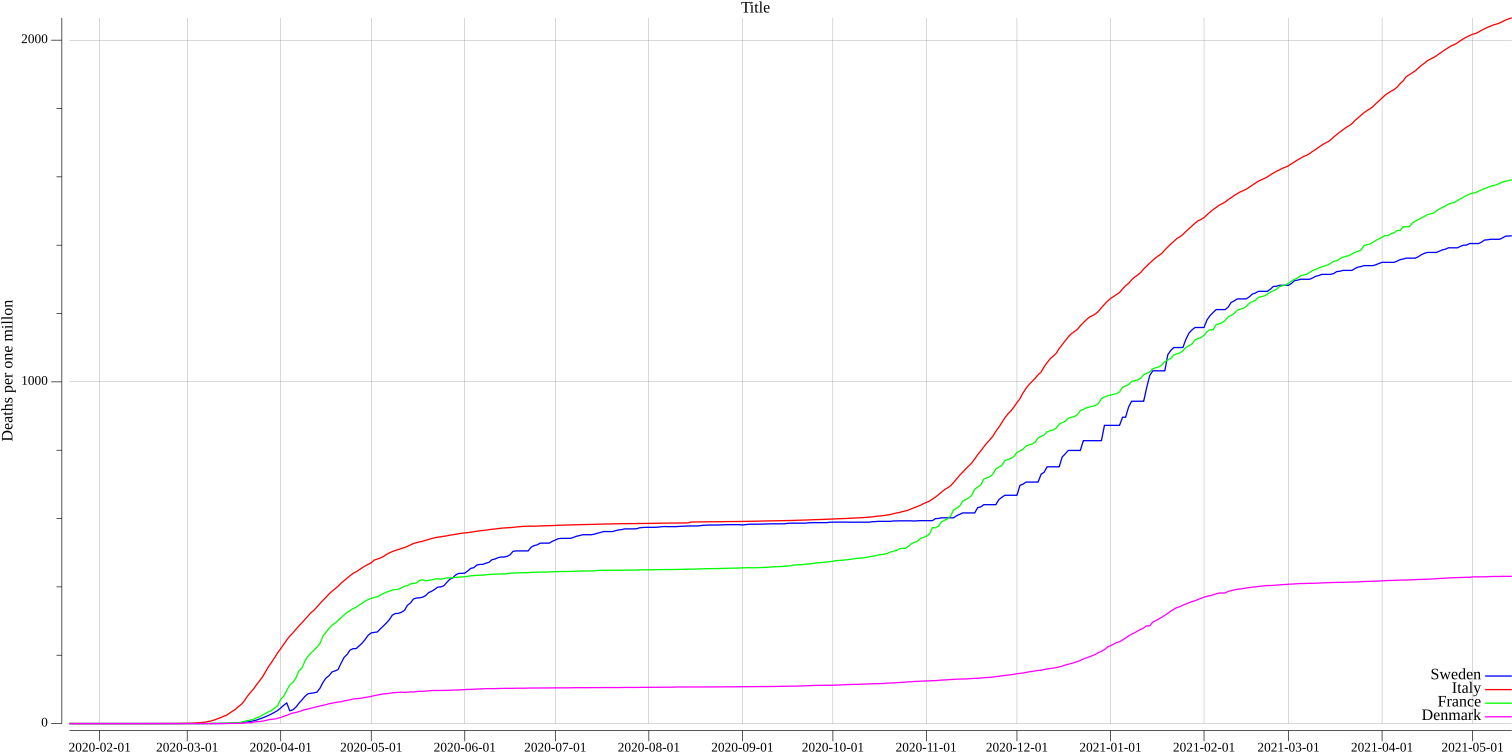
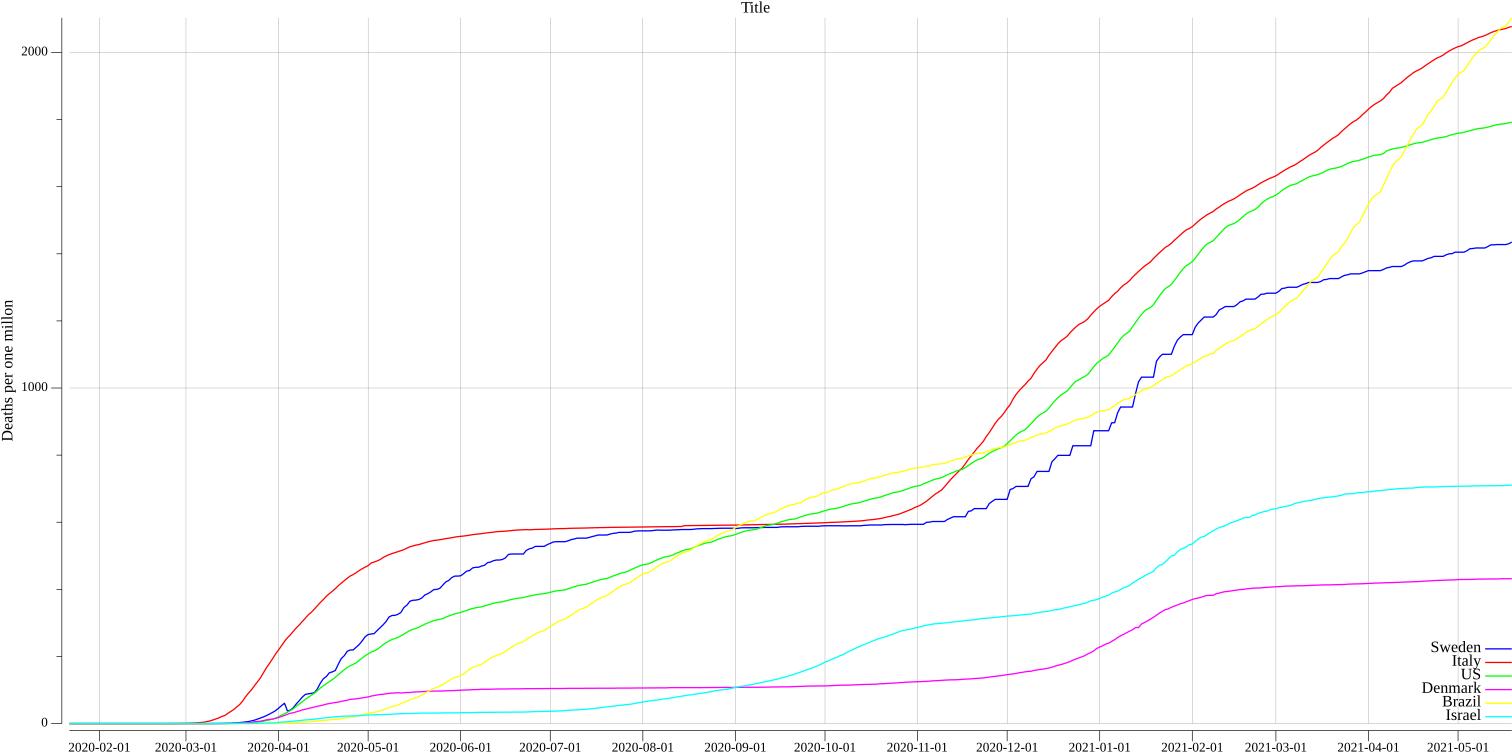
New countries

diff --git a/plot_covid.go b/plot_covid.go
@@ -100,6 +100,8 @@ func main() {
 	// Download file from John Hopkins
 	fileUrl := "https://raw.githubusercontent.com/CSSEGISandData/COVID-19/master/csse_covid_19_data/csse_covid_19_time_series/time_series_covid19_deaths_global.csv"
 	filename := "time_series_covid19_deaths_global.csv"
+	// fileUrl := "https://raw.githubusercontent.com/CSSEGISandData/COVID-19/master/csse_covid_19_data/csse_covid_19_time_series/time_series_covid19_confirmed_global.csv"
+	// filename := "time_series_covid19_confirmed_global.csv"
 	downloaded := false
 	err := DownloadFile(filename, fileUrl, &downloaded)
 	if err != nil {
@@ -196,7 +198,7 @@ func main() {
 	f2.Close()
 
 	// Country selection and polulation
-	nbrPlotCountries := 4
+	nbrPlotCountries := 6
 	selCountry := make([]countryIndex, nbrPlotCountries)
 
 	selCountry[0].country = "Sweden"
@@ -205,12 +207,19 @@ func main() {
 	selCountry[1].country = "Italy"
 	selCountry[1].polulation = 60
 	selCountry[1].lineColor = color.RGBA{R: 255, A: 255}
-	selCountry[2].country = "France"
-	selCountry[2].polulation = 67
+	selCountry[2].country = "US"
+	selCountry[2].polulation = 328
 	selCountry[2].lineColor = color.RGBA{G: 255, A: 255}
 	selCountry[3].country = "Denmark"
 	selCountry[3].polulation = 5.8
 	selCountry[3].lineColor = color.RGBA{B: 255, R: 255, A: 255}
+	selCountry[4].country = "Brazil"
+	selCountry[4].polulation = 210
+	selCountry[4].lineColor = color.RGBA{G: 255, R: 255, A: 255}
+	selCountry[5].country = "Israel"
+	selCountry[5].polulation = 9
+	selCountry[5].lineColor = color.RGBA{G: 255, B: 255, A: 255}
+
 	for i := 0; i < nbrPlotCountries; i++ {
 		for j := 0; j < nbrOfCountries; j++ {
 			if strings.Compare(selCountry[i].country, jhData.country[j].country) == 0 && strings.Compare(jhData.country[j].province, "") == 0 {
